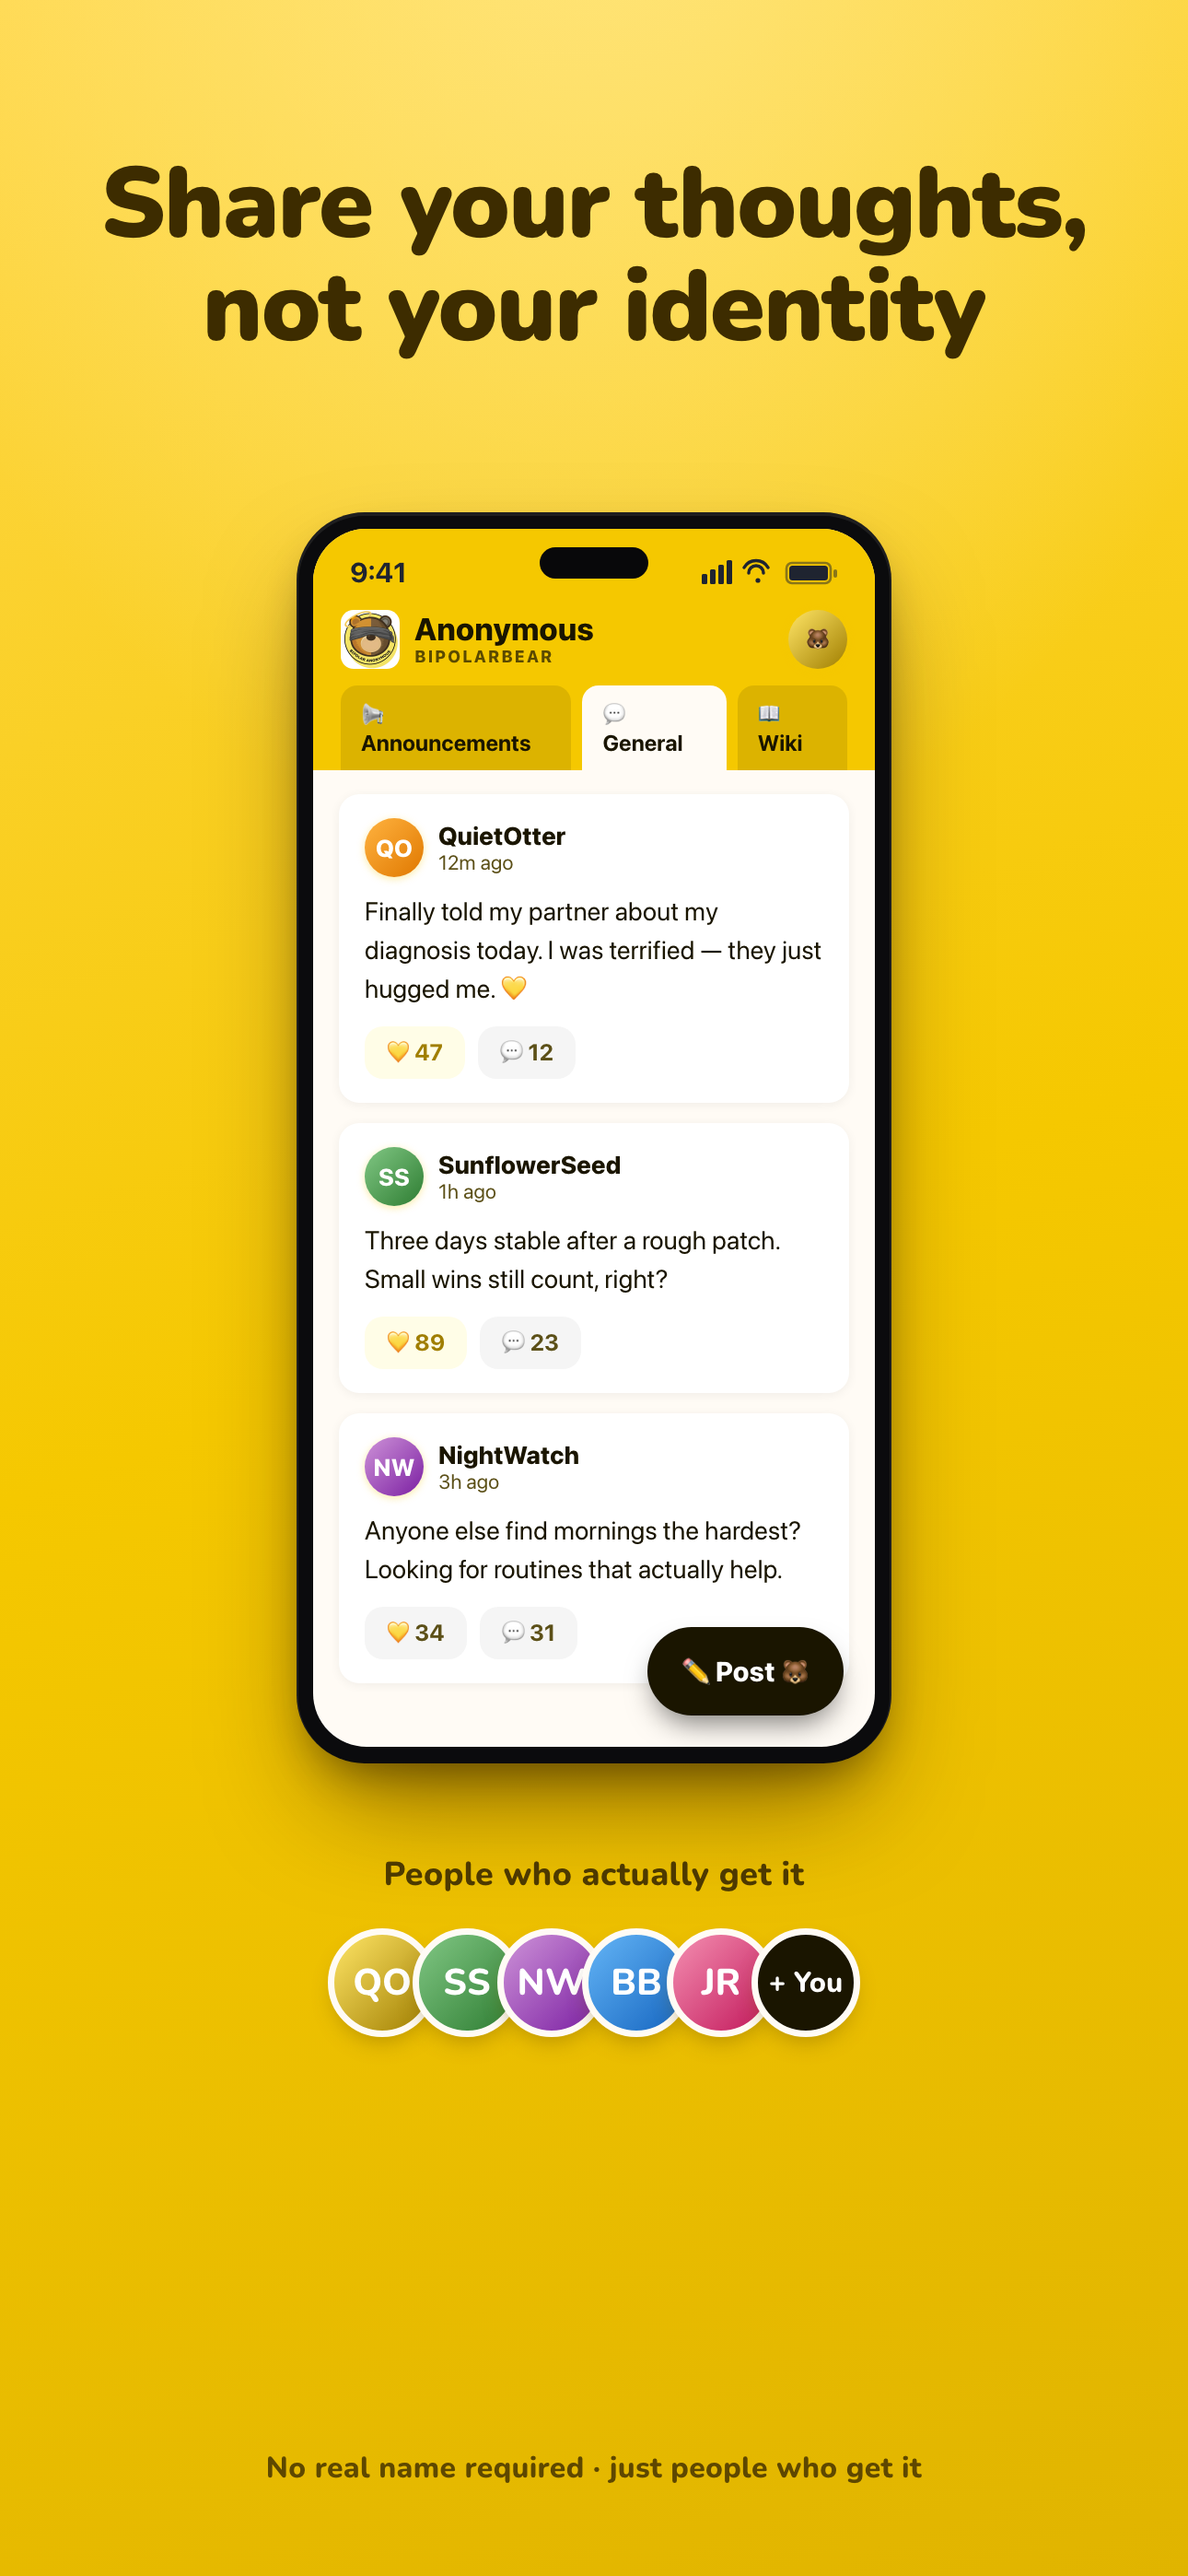
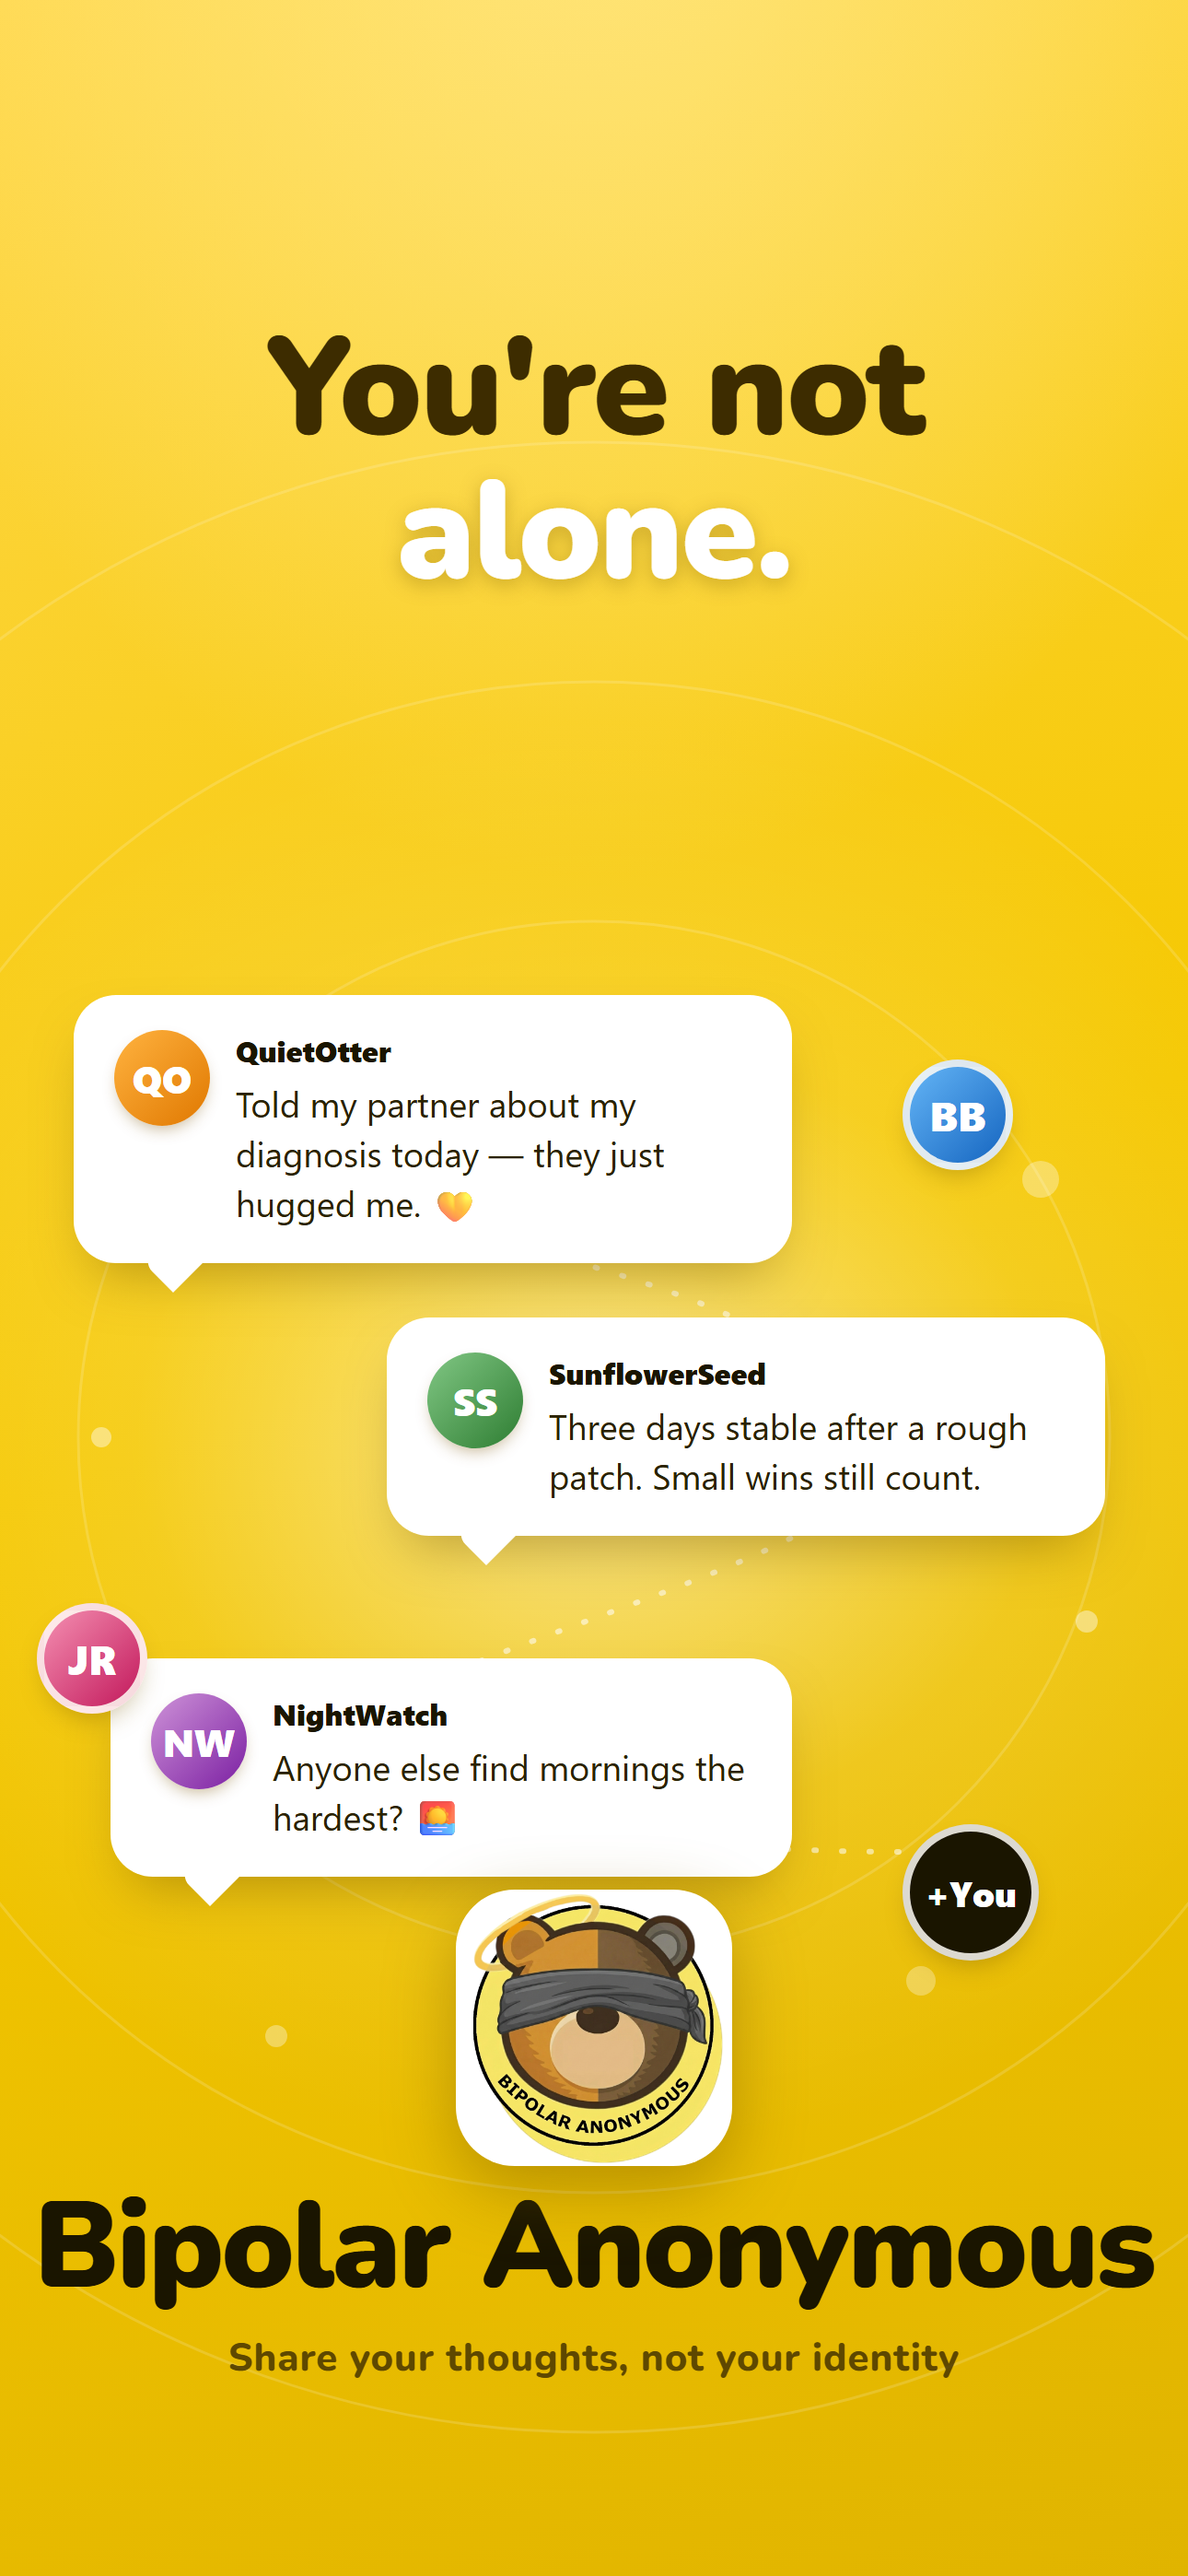
Marketing: phone-less art hero for Bipolar Anonymous
Replace the phone-mockup anon hero with full-bleed yellow art mirroring the
Bipolar Bear hero — "You're not alone." headline, floating anonymous
community chat-bubbles with monika avatars, and the Bipolar Anonymous
wordmark. Regenerated out/anonymous/iphone/01-hero.png (the slide the
marketing pages use). Android/iPad anon store heroes still show the old
version until a full build-anon.mjs rebuild.

diff --git a/store-assets/screens/screen-anon1-hero.html b/store-assets/screens/screen-anon1-hero.html
@@ -5,139 +5,116 @@
 <link rel="stylesheet" href="../fonts.css">
 <link rel="stylesheet" href="shared.css">
 <style>
-  .stage{ --dev-w:646px; }
-  .device{ left:50%; top:556px; transform:translateX(-50%); }
+  /* Phone-less art hero for Bipolar Anonymous — mirrors the Bipolar Bear
+     hero (screen1-hero.html): full-bleed yellow art that conveys the app
+     (an anonymous peer community) through floating chat bubbles + monika
+     avatars, with the wordmark anchored at the bottom. No device frame. */
 
-  /* Anonymous board (yellow) */
-  .board{ height:100%; background:#FFFBF5; font-family:'Segoe UI',system-ui,sans-serif; }
-  .board-head{ background:#f5c800; padding:14px 30px 0; }
-  .bh-top{ display:flex; align-items:center; justify-content:space-between; padding-bottom:18px; }
-  .bh-logo{ display:flex; align-items:center; gap:16px; }
-  .bh-logo img{ width:64px; height:64px; border-radius:14px; }
-  .bh-name{ font-weight:800; font-size:34px; color:#1a1500; line-height:1; }
-  .bh-sub{ font-weight:800; font-size:18px; letter-spacing:.12em; text-transform:uppercase; color:#1a1500; opacity:.7; margin-top:3px; }
-  .bh-pill{ width:64px; height:64px; border-radius:50%;
-    background:linear-gradient(135deg,#ffe566,#a07e00); color:#fff; font-weight:800; font-size:26px;
-    display:flex; align-items:center; justify-content:center; box-shadow:0 2px 8px rgba(245,200,0,.4); }
-  .tabs{ display:flex; gap:12px; }
-  .tab{ font-weight:700; font-size:24px; color:#1a1500; padding:16px 22px;
-    border-radius:18px 18px 0 0; background:rgba(0,0,0,.10); }
-  .tab.active{ background:#FFFBF5; }
+  .wordmark{ position:absolute; left:0; right:0; bottom:208px;
+    display:flex; flex-direction:column; align-items:center; gap:4px; }
+  .wordmark img{ width:300px; height:300px; border-radius:64px; margin-bottom:18px;
+    filter:drop-shadow(0 24px 38px rgba(120,90,0,.45)); }
+  .wordmark .name{ font-weight:900; font-size:132px; line-height:1; color:#1a1500;
+    letter-spacing:-.02em; white-space:nowrap; }
+  .wordmark .tag{ font-weight:800; font-size:42px; color:#3d2c00; opacity:.8;
+    letter-spacing:.02em; margin-top:22px; }
 
-  .feed{ padding:26px 28px; display:flex; flex-direction:column; }
-  .post{ background:#fff; border-radius:22px; padding:26px 28px; margin-bottom:22px;
-    box-shadow:0 2px 12px rgba(0,0,0,.06); }
-  .post-top{ display:flex; align-items:center; justify-content:space-between; margin-bottom:16px; }
-  .pa{ display:flex; align-items:center; gap:16px; }
-  .av{ width:64px; height:64px; border-radius:50%; color:#fff; font-weight:800; font-size:26px;
-    display:flex; align-items:center; justify-content:center;
-    background:linear-gradient(135deg,#ffb340,#e07800); box-shadow:0 2px 8px rgba(245,200,0,.35); }
-  .pname{ font-weight:800; font-size:27px; color:#1a1500; }
-  .ptime{ font-size:22px; color:#5c5018; }
-  .ptext{ font-size:28px; color:#1a1500; line-height:1.5; }
-  .pacts{ display:flex; gap:14px; margin-top:20px; }
-  .pbtn{ background:#f5f5f5; border-radius:20px; padding:12px 24px; font-size:25px; font-weight:700; color:#5c5018; }
-  .pbtn.liked{ background:#fffde7; color:#a07e00; }
+  /* Floating anonymous post bubbles */
+  .bubble{ position:absolute; background:#fff; border-radius:46px;
+    padding:38px 44px; display:flex; gap:28px; align-items:flex-start;
+    box-shadow:0 30px 60px -22px rgba(120,90,0,.5); }
+  .bubble .av{ flex:0 0 auto; width:104px; height:104px; border-radius:50%;
+    display:flex; align-items:center; justify-content:center; color:#fff;
+    font-weight:800; font-size:42px; font-family:'Segoe UI',system-ui,sans-serif;
+    background:linear-gradient(135deg,#ffb340,#e07800);
+    box-shadow:0 8px 18px -6px rgba(120,80,0,.45); }
+  .bubble .who{ font-weight:800; font-size:32px; color:#1a1500; margin-bottom:10px;
+    font-family:'Segoe UI',system-ui,sans-serif; }
+  .bubble .msg{ font-size:38px; color:#2a2200; line-height:1.42;
+    font-family:'Segoe UI',system-ui,sans-serif; }
+  /* little tail */
+  .bubble::after{ content:""; position:absolute; bottom:-22px; left:84px;
+    width:48px; height:48px; background:#fff; border-radius:0 0 0 16px;
+    transform:rotate(45deg); }
 
-  .fab{ position:absolute; right:34px; bottom:34px; height:96px; border-radius:48px;
-    background:#1a1500; color:#fff; font-weight:800; font-size:30px;
-    display:flex; align-items:center; gap:14px; padding:0 38px;
-    box-shadow:0 16px 30px -8px rgba(0,0,0,.5); }
+  /* small standalone avatars floating in the gaps */
+  .floatav{ position:absolute; width:120px; height:120px; border-radius:50%;
+    display:flex; align-items:center; justify-content:center; color:#fff;
+    font-weight:800; font-size:44px; font-family:'Segoe UI',system-ui,sans-serif;
+    border:8px solid rgba(255,251,245,.85);
+    box-shadow:0 14px 28px -10px rgba(120,90,0,.4); }
 </style>
 </head>
 <body>
 <div class="canvas bg-yellow on-yellow">
 <div class="stage">
 
-  <div class="copy" style="top:0;height:556px;display:flex;flex-direction:column;justify-content:center;">
-    <div class="headline sm">Share your thoughts,<br>not your identity</div>
+  <!-- depth: glow, rings, dotted community thread, bokeh hearts -->
+  <svg width="100%" height="100%" viewBox="0 0 1290 2796" preserveAspectRatio="xMidYMid slice"
+       style="position:absolute;inset:0;overflow:visible;">
+    <defs>
+      <radialGradient id="cGlow" cx="0.5" cy="0.5" r="0.5">
+        <stop offset="0"    stop-color="#ffffff" stop-opacity="0.55"/>
+        <stop offset="0.55" stop-color="#ffffff" stop-opacity="0.12"/>
+        <stop offset="1"    stop-color="#ffffff" stop-opacity="0"/>
+      </radialGradient>
+    </defs>
+
+    <!-- soft central light -->
+    <ellipse cx="645" cy="1560" rx="900" ry="780" fill="url(#cGlow)"/>
+    <!-- faint ripple rings -->
+    <g fill="none" stroke="#ffffff" stroke-opacity="0.16" stroke-width="3">
+      <circle cx="645" cy="1560" r="560"/>
+      <circle cx="645" cy="1560" r="820"/>
+      <circle cx="645" cy="1560" r="1080"/>
+    </g>
+    <!-- dotted thread weaving between the voices -->
+    <path d="M250,1240 C470,1360 760,1360 940,1520 C1090,1660 540,1760 360,1880 C240,1960 700,2010 980,2010"
+          fill="none" stroke="#ffffff" stroke-opacity="0.55" stroke-width="6"
+          stroke-linecap="round" stroke-dasharray="2 28"/>
+    <!-- floating bokeh hearts/dots -->
+    <g fill="#ffffff">
+      <circle cx="150" cy="1120" r="14" opacity="0.4"/>
+      <circle cx="1130" cy="1280" r="20" opacity="0.32"/>
+      <circle cx="1180" cy="1760" r="12" opacity="0.42"/>
+      <circle cx="110" cy="1560" r="11" opacity="0.42"/>
+      <circle cx="1000" cy="2150" r="16" opacity="0.3"/>
+      <circle cx="300" cy="2210" r="12" opacity="0.34"/>
+    </g>
+  </svg>
+
+  <!-- copy -->
+  <div class="copy" style="top:0;height:1000px;display:flex;flex-direction:column;justify-content:center;">
+    <div class="headline" style="font-size:150px;">You're not<br><span style="color:#fff;text-shadow:0 6px 22px rgba(120,90,0,.35);">alone.</span></div>
   </div>
 
-  <div class="device">
-    <div class="screen">
-      <div class="island"></div>
-      <div class="board">
-        <div class="statusbar light" style="position:absolute;left:0;right:0;background:#f5c800;"><span>9:41</span>
-          <svg width="148" height="30" viewBox="0 0 148 30" fill="currentColor">
-            <rect x="0" y="18" width="6" height="11" rx="1.5"/><rect x="9" y="13" width="6" height="16" rx="1.5"/>
-            <rect x="18" y="8" width="6" height="21" rx="1.5"/><rect x="27" y="3" width="6" height="26" rx="1.5"/>
-            <g transform="translate(44,3)" fill="none" stroke="currentColor" stroke-width="3.5" stroke-linecap="round">
-              <path d="M2,8 a15,15 0 0 1 26,0"/><path d="M7,14 a8,8 0 0 1 16,0"/></g>
-            <circle cx="61" cy="25" r="2.6"/>
-            <rect x="92" y="6" width="48" height="22" rx="6" fill="none" stroke="currentColor" stroke-width="2.6" opacity="0.5"/>
-            <rect x="143" y="13" width="4" height="9" rx="2" opacity="0.5"/>
-            <rect x="95" y="9" width="42" height="16" rx="3.5"/>
-          </svg>
-        </div>
-
-        <div class="board-head" style="padding-top:88px;">
-          <div class="bh-top">
-            <div class="bh-logo">
-              <img src="REPO/icons/AppIcon_anonymous.png" alt="">
-              <div><div class="bh-name">Anonymous</div><div class="bh-sub">BipolarBear</div></div>
-            </div>
-            <div class="bh-pill">🐻</div>
-          </div>
-          <div class="tabs">
-            <div class="tab">📢 Announcements</div>
-            <div class="tab active">💬 General</div>
-            <div class="tab">📖 Wiki</div>
-          </div>
-        </div>
-
-        <div class="feed">
-          <div class="post">
-            <div class="post-top">
-              <div class="pa">
-                <div class="av">QO</div>
-                <div><div class="pname">QuietOtter</div><div class="ptime">12m ago</div></div>
-              </div>
-            </div>
-            <div class="ptext">Finally told my partner about my diagnosis today. I was terrified — they just hugged me. 💛</div>
-            <div class="pacts"><div class="pbtn liked">💛 47</div><div class="pbtn">💬 12</div></div>
-          </div>
-
-          <div class="post">
-            <div class="post-top">
-              <div class="pa">
-                <div class="av" style="background:linear-gradient(135deg,#81c784,#2e7d32)">SS</div>
-                <div><div class="pname">SunflowerSeed</div><div class="ptime">1h ago</div></div>
-              </div>
-            </div>
-            <div class="ptext">Three days stable after a rough patch. Small wins still count, right?</div>
-            <div class="pacts"><div class="pbtn liked">💛 89</div><div class="pbtn">💬 23</div></div>
-          </div>
-
-          <div class="post">
-            <div class="post-top">
-              <div class="pa">
-                <div class="av" style="background:linear-gradient(135deg,#ce93d8,#7b1fa2)">NW</div>
-                <div><div class="pname">NightWatch</div><div class="ptime">3h ago</div></div>
-              </div>
-            </div>
-            <div class="ptext">Anyone else find mornings the hardest? Looking for routines that actually help.</div>
-            <div class="pacts"><div class="pbtn">💛 34</div><div class="pbtn">💬 31</div></div>
-          </div>
-        </div>
-
-        <div class="fab">✏ Post 🐻</div>
-      </div>
-    </div>
+  <!-- floating anonymous community voices -->
+  <div class="bubble" style="left:80px; top:1080px; width:780px;">
+    <div class="av">QO</div>
+    <div><div class="who">QuietOtter</div><div class="msg">Told my partner about my diagnosis today — they just hugged me. 💛</div></div>
   </div>
 
-  <div class="deck" style="top:2010px;">
-    <div class="dlabel">People who actually get it</div>
-    <div class="avrow">
-      <span class="ava">QO</span>
-      <span class="ava" style="background:linear-gradient(135deg,#81c784,#2e7d32)">SS</span>
-      <span class="ava" style="background:linear-gradient(135deg,#ce93d8,#7b1fa2)">NW</span>
-      <span class="ava" style="background:linear-gradient(135deg,#64b5f6,#1565c0)">BB</span>
-      <span class="ava" style="background:linear-gradient(135deg,#f48fb1,#c2185b)">JR</span>
-      <span class="ava more" style="font-size:31px;white-space:nowrap;">+ You</span>
-    </div>
+  <div class="bubble" style="left:420px; top:1430px; width:780px;">
+    <div class="av" style="background:linear-gradient(135deg,#81c784,#2e7d32)">SS</div>
+    <div><div class="who">SunflowerSeed</div><div class="msg">Three days stable after a rough patch. Small wins still count.</div></div>
   </div>
 
-  <div class="footnote">No real name required · just people who get it</div>
+  <div class="bubble" style="left:120px; top:1800px; width:740px;">
+    <div class="av" style="background:linear-gradient(135deg,#ce93d8,#7b1fa2)">NW</div>
+    <div><div class="who">NightWatch</div><div class="msg">Anyone else find mornings the hardest? 🌅</div></div>
+  </div>
+
+  <!-- small floating voices -->
+  <div class="floatav" style="left:980px; top:1150px; background:linear-gradient(135deg,#64b5f6,#1565c0)">BB</div>
+  <div class="floatav" style="left:40px; top:1740px; background:linear-gradient(135deg,#f48fb1,#c2185b)">JR</div>
+  <div class="floatav" style="left:980px; top:1980px; width:148px; height:148px; font-size:38px; background:#1a1500">+You</div>
+
+  <!-- brand -->
+  <div class="wordmark">
+    <img src="REPO/icons/AppIcon_anonymous_1024_store.png" alt="">
+    <div class="name">Bipolar Anonymous</div>
+    <div class="tag">Share your thoughts, not your identity</div>
+  </div>
 
 </div>
 </div>
